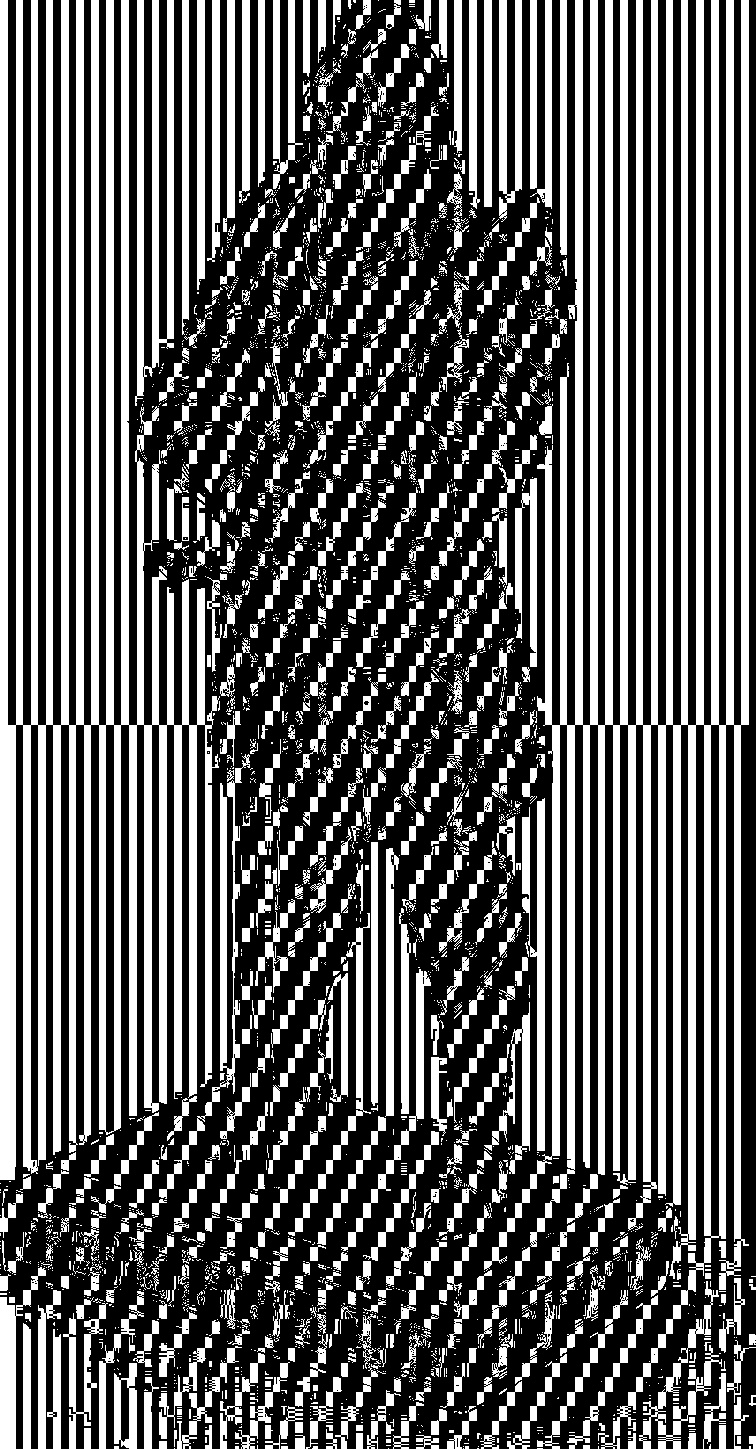
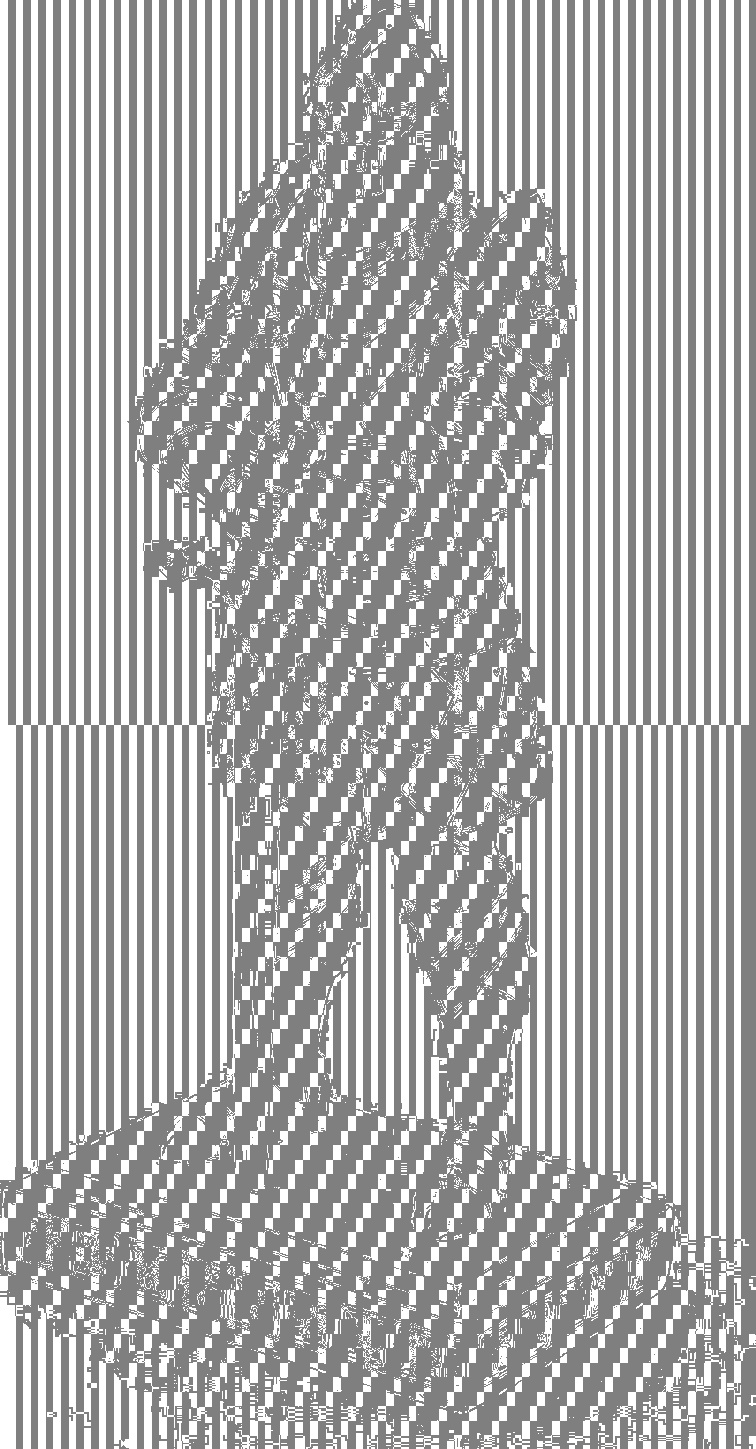
testing

diff --git a/edge_stylization/hatching.py b/edge_stylization/hatching.py
@@ -63,6 +63,7 @@ def apply_hatching(image, intensity_map, patterns_dir, num_levels=5):
         if pattern is None:
             raise FileNotFoundError(f'Hatching pattern not found: {pattern_path}')
         pattern = cv.resize(pattern, (w, h), interpolation=cv.INTER_NEAREST)
+        cv.imwrite(f'output/resized_pattern_{i+1}.png', pattern)
         patterns.append(pattern)
 
     for level in range(num_levels):
@@ -70,10 +71,11 @@ def apply_hatching(image, intensity_map, patterns_dir, num_levels=5):
         pattern = patterns[level]
         pattern_masked = cv.bitwise_and(pattern, pattern, mask=mask)
 
-        hatched_image = cv.bitwise_or(hatched_image, pattern_masked)
-
         cv.imwrite(f'output/mask_level_{level}.png', mask)
         cv.imwrite(f'output/pattern_masked_level_{level}.png', pattern_masked)
+        
+        hatched_image = cv.addWeighted(hatched_image, 1, pattern_masked, 0.5, 0)
+
 
     hatched_image = 255 - hatched_image
 
